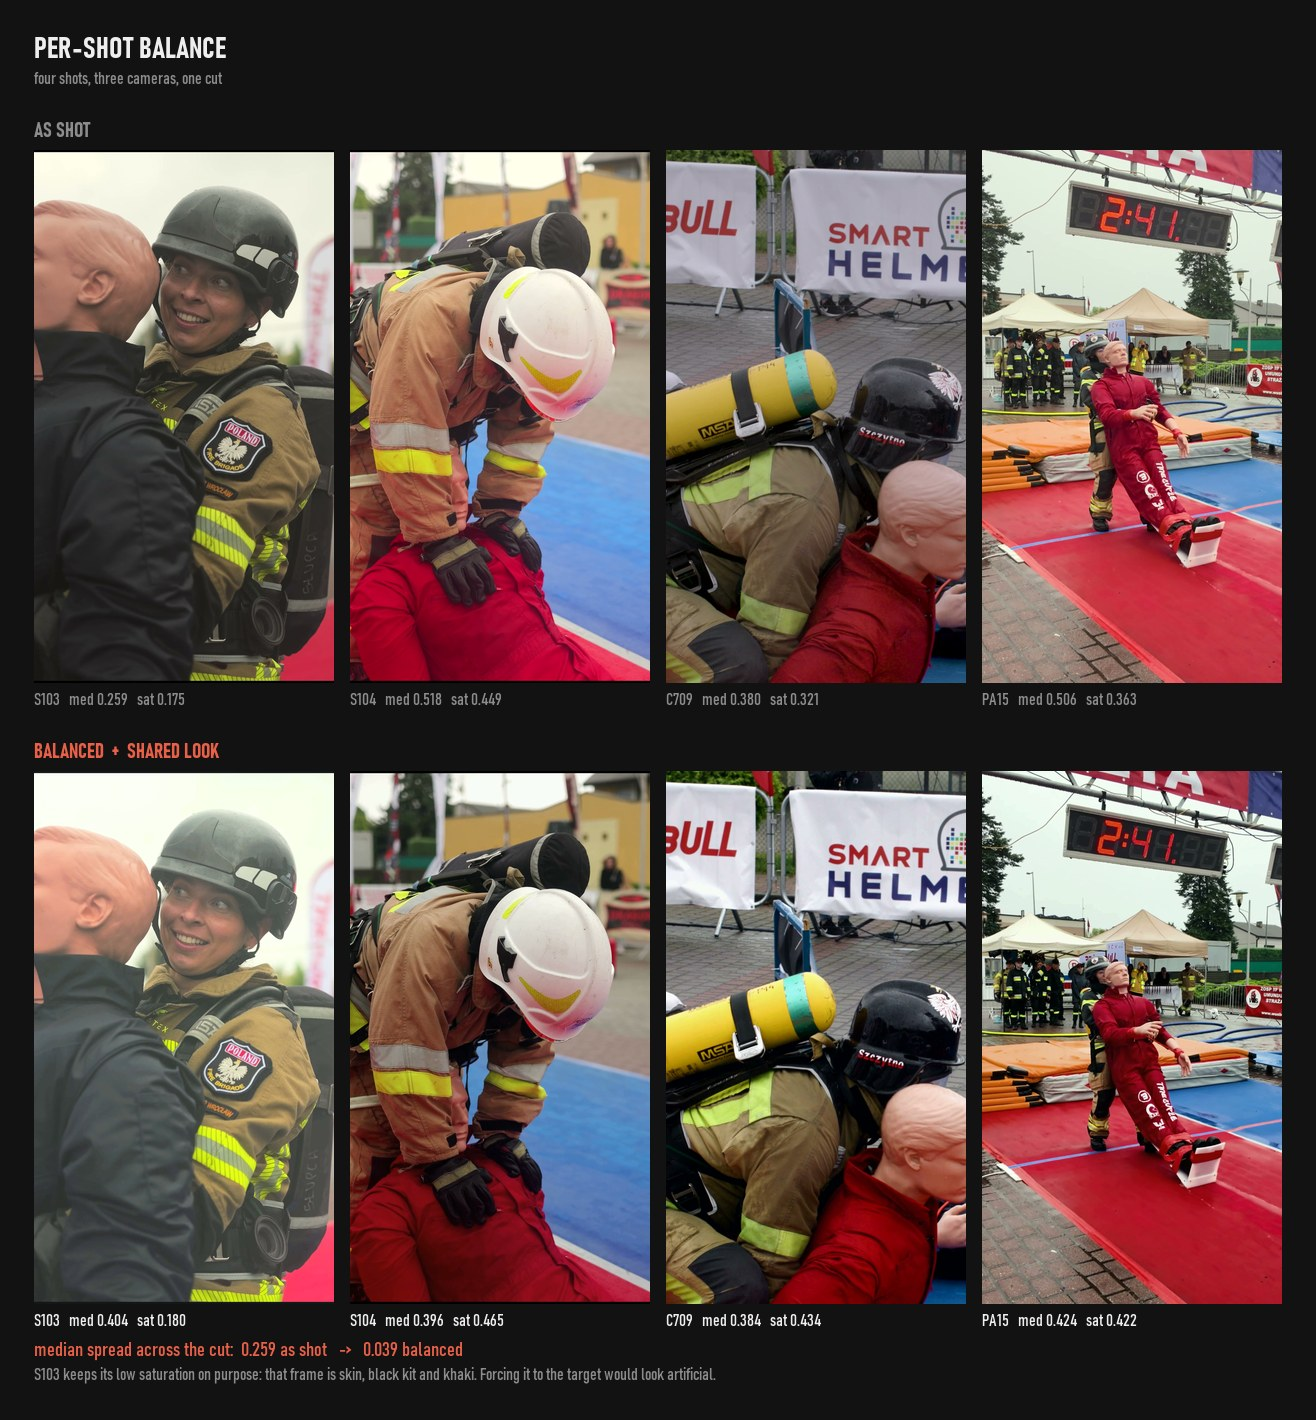
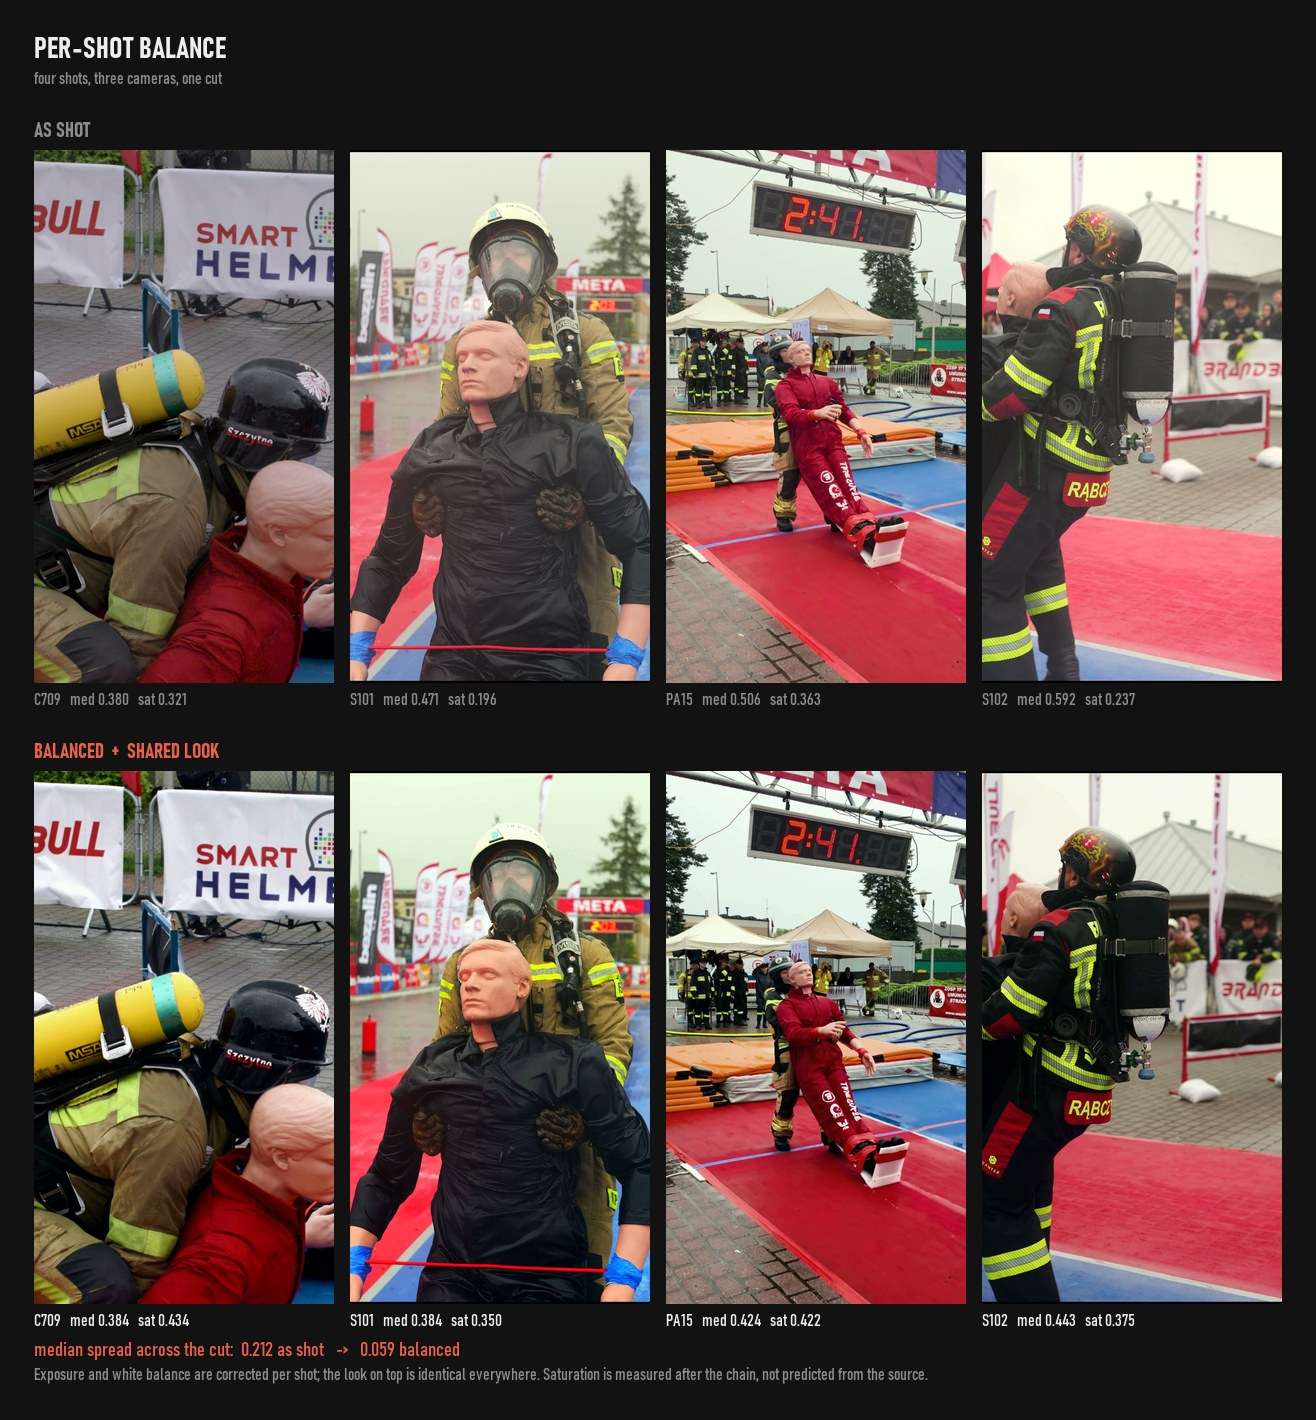
Replace README frames with ones showing no recognisable faces
The footage is of a public event. People came to compete or to watch, not to
appear on a tool's repository page, and a reel going to its own audience is not
consent to illustrate software. Every frame is now helmets, masks, backs,
equipment or mannequins, chosen by eye from candidate sheets because automated
selection kept landing on the finish-line celebrations, which are all faces.

Checked at full resolution rather than at display size: a face behind an SCBA
visor vanishes in a 190px thumbnail and reads clearly in the 1080px source.

The colour comparison drops the two clips that showed faces. The remaining four
span 0.380 to 0.592 as shot, so the demonstration survives: spread goes 0.212
to 0.059 rather than 0.259 to 0.039.

Adds pitfall 19 and corrects the script count in the README.

diff --git a/README.md b/README.md
@@ -1,7 +1,7 @@
 # reelsmith
 
 A step-gated pipeline for turning raw footage into finished short-form vertical
-video. Claude Code plugin, three skills, nine scripts.
+video. Claude Code plugin, three skills, ten scripts.
 
 It is deliberately brand-agnostic. It will extract and use a brand if one exists,
 and it will not invent one if there isn't.
@@ -57,17 +57,19 @@ file", "cut this to the beat" all work directly.
 
 Four shots from one cut, three different cameras, an overcast day with rain.
 
-As shot, the medians run **0.259, 0.518, 0.380, 0.506** — every clip individually
+As shot, the medians run **0.380, 0.471, 0.506, 0.592** — every clip individually
 plausible, and visibly mismatched the moment they sit next to each other. A single
 LUT per camera cannot fix that: it applies one gamma derived from a segment median,
 which darkens everything above that median and lightens everything below it.
 
-Balanced per shot with one shared look on top: **0.404, 0.396, 0.384, 0.424**. The
-spread across the cut goes from **0.259 to 0.039**.
+Balanced per shot with one shared look on top: **0.384, 0.384, 0.424, 0.443**. The
+spread across the cut goes from **0.212 to 0.059**.
 
-The first shot keeps its low saturation deliberately. It is skin, black kit and
-khaki, so there is nothing there to saturate, and forcing it to the target would
-look artificial. Shots that hit the limits are marked `capped` rather than pushed.
+Saturation is measured *after* the chain rather than predicted from the source,
+because stretching levels raises it and the shared look raises it again. The second
+shot lands at 0.350 against a 0.42 target and is left there: it is a mannequin, a
+black tunic and grey sky, so there is little in the frame to saturate and forcing
+it would look artificial. Shots that reach the limits are marked `capped`.
 
 ## Scripts
 

diff --git a/skills/reelsmith/references/pitfalls.md b/skills/reelsmith/references/pitfalls.md
@@ -298,3 +298,30 @@ if end > shot_end: ...
 
 A static end card is where completion rate dies. Cap it at about 1.5 seconds. If it
 needs longer to read, it has too much on it.
+
+---
+
+## 19. Frames of real people, published somewhere they never agreed to
+
+A reel goes to an audience the people in it expect. A README, a case study, a
+portfolio page or a public repository does not, and consent for one is not consent
+for the other. Spectators and children are in the footage because they came to an
+event, not because they agreed to illustrate a tool.
+
+**Why it slips through:** automated frame selection optimises for something like
+sharpness or visual interest, and both of those correlate with faces. Picking "the
+best frame" from an event reel will reliably hand you a crowd shot.
+
+**Fix:** when frames leave their original context, choose them on that basis
+explicitly — helmets, masks, backs, hands, equipment, wide shots. Then check at
+**full resolution**, not at the size the page will display. A face behind a
+respirator visor disappears in a 190px thumbnail and is perfectly readable in the
+1080px source that anyone can open, and it is the source that gets published.
+
+Check backgrounds too. A frame whose subject is safely turned away can still have a
+bystander in focus behind them.
+
+**If it is already pushed:** rewriting the commit and moving the tag removes it from
+every branch and ref, but the old objects stay reachable by their SHA on most hosts
+until garbage collection. Getting it right before the first push is much cheaper
+than getting it back afterwards.
